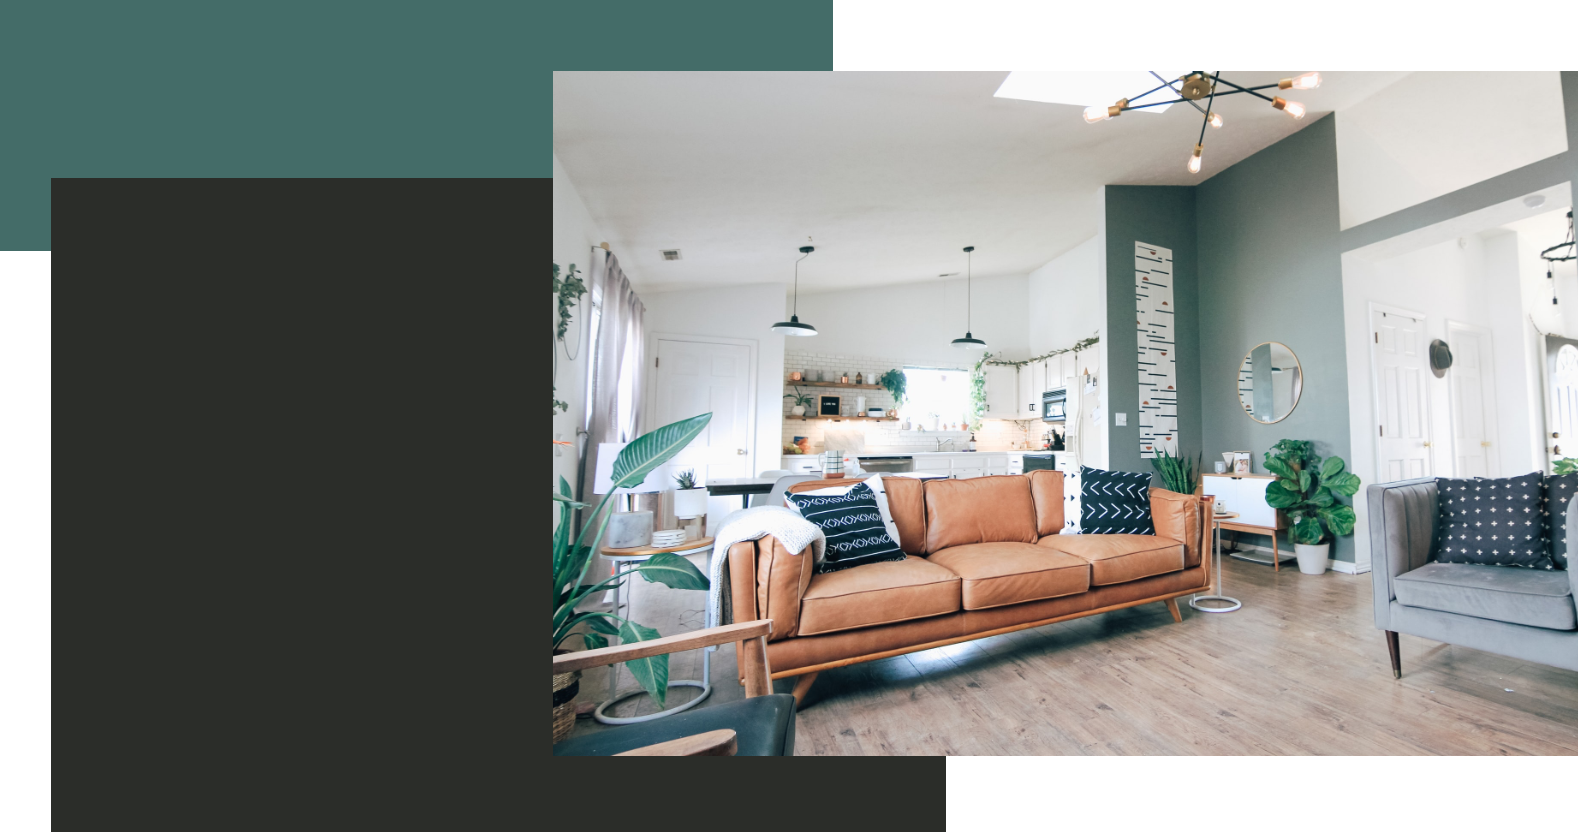
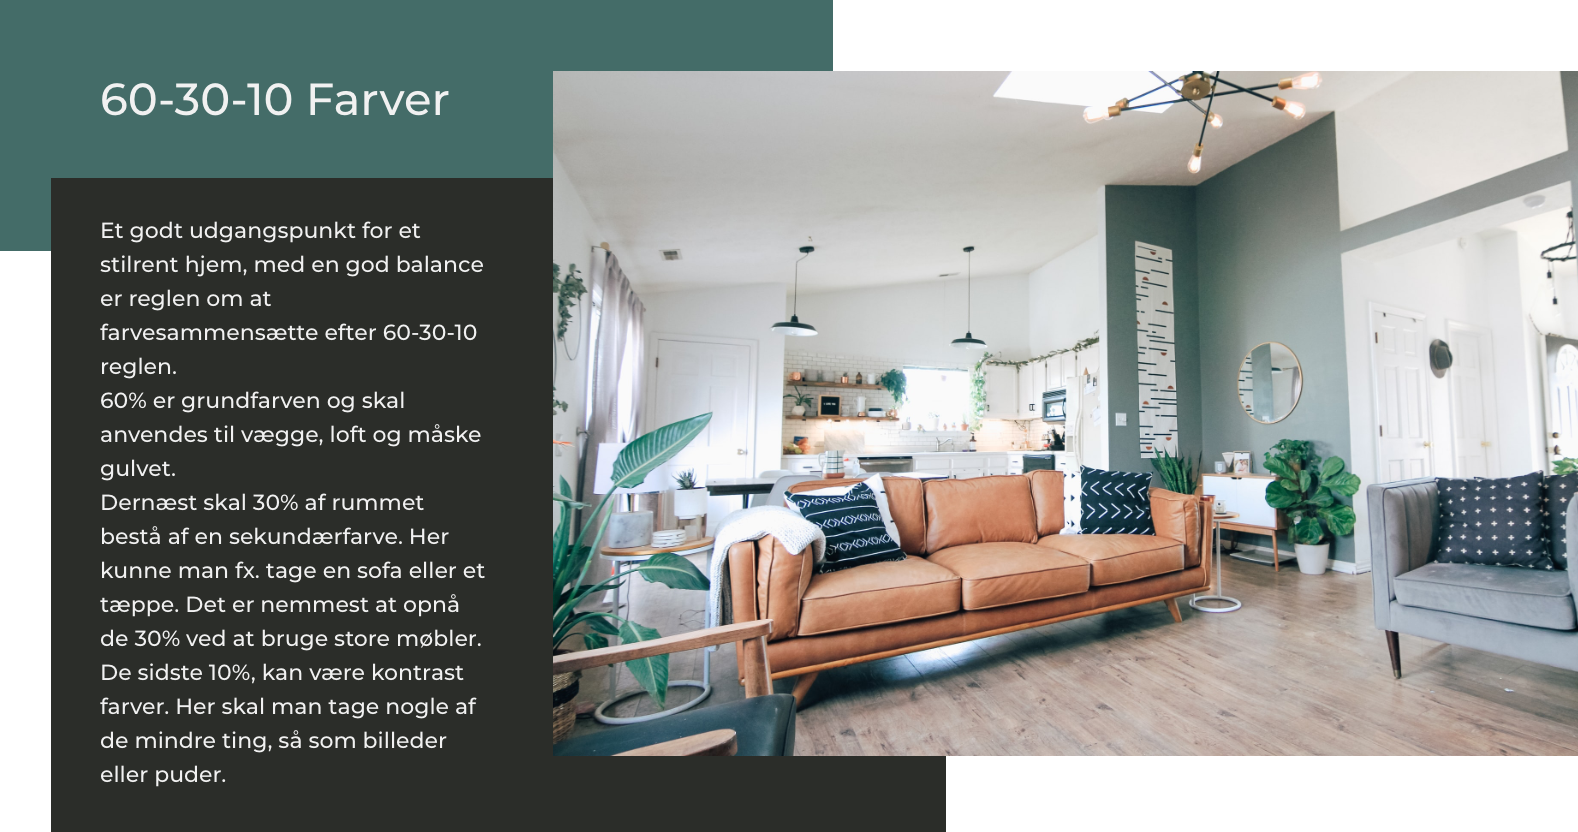
version 42

diff --git a/inspiration.html b/inspiration.html
@@ -73,7 +73,7 @@
 
                 <h2 id="inspiundertitel1">60-30-10</h2>
 
-                <p class="inspitekst">Den nemmeste regel at følge er at farvesammensætte efter tallene 60-30-10: 60% af rummet bør bestå af en grundfarve på væggene, gulv og loft. 30% af rummet bør bestå af en sekundær farve. Her virker det godt at bruge støre møbler som en sofa eller et tæppe i en ny farve. 10% af rummet skal bestå af 1-3 kontrastfarver. Vælg et par mindre detaljer ud som eksempelvis sofapuder og plaider.</p>
+                <p class="inspitekst">Et godt udgangspunkt for et stilrent hjem, med en god balance er reglen om at farvesammensætte efter 60-30-10 reglen.<br>60% er grundfarven og skal anvendes til vægge, loft og måske gulvet.<br>Dernæst skal 30% af rummet bestå af en sekundærfarve. Her kunne man fx. tage en sofa eller et tæppe. Det er nemmest at opnå de 30% ved at bruge store møbler.<br>De sidste 10%, kan være kontrast farver. Her skal man tage nogle af de mindre ting, så som billeder eller puder.</p>
 
             </article>
 
@@ -84,7 +84,7 @@
 
                 <h2 id="inspiundertitel2">Komplementærfarver <br>i din indretning</h2>
 
-                <p class="inspitekst">Det fungerer også altid godt at bruge komplementærfarver i din indretning. Altså kontrastfarver, der passer godt sammen. Lidt ligesom Yin og Yang. Her skal du bruge en farvepalette, og du finder komplementærfarverne ved at se hvilke farver, der ligger overfor hinanden på den. Rød og grøn, gul og lilla samt blå og orange (som på billedet) er hinandens komplementærfarver. Det betyder, at de er hinandens modsætninger, men at de klæder hinanden utrolig godt. Sætter du sådan et farvepar sammen, vil du opleve, at de giver liv og et flot farvespil derhjemme.</p>
+                <p class="inspitekst">Et andet initiativ som også kan bruges sammen med 60-30-10 reglen, er at bruge komplementær farver. Det vil oftest være i form af de 30% of 10% at man anvender komplementærfarver. Hvis man kigger på en farvepalette, så er det blot at kigge efter hvilke farver der ligger overfor hinanden. De vil have et godt sammenspil. Det er hinandens modsætninger og vil derfor skabe mere liv i hjemmet. Billedet ovenfor viser et rigtig godt eksempel på flot farvespil i mellem orange og blå.</p>
 
             </article>
 
@@ -94,14 +94,15 @@
 
                 <h2 id="inspiundertitel3">Tone i tone</h2>
 
-                <p class="inspitekst">Det behøves ikke at stikke i alle retninger og være helt vildt, når du bruger farver i dit hjem og din indretning. Det kan sagtens lade sig gøre at have rigtigt mange farver i dit hjem, men stadig have et helt roligt og harmonisk udtryk. Det gøres let ved at vælge tone i tone-farver, hvor alle de valgte nuancer læner sig op af hinanden på farveskalaen.</p>
+                <p class="inspitekst">I stedet for komplementær farver, kan man også vælge den mere rolige stil, og blot anvende farver i samme nuancer. Det vil sige farver som ikke adskiller sig særligt meget fra hinanden.<br><br>Som det ses på billedet, så er der mange forskellige farver i form af brun, sand, blå, lilla osv, men grundet de alle er lyse i farverne, så passer de godt sammen.</p>
 
             </article>
 
         </section>
         <section id="deskinspi">
+           
             <article class="deskinspirationsartikel">
-                <img src="images/inspiration/deskinspi1.png" alt="60-30-10 billeder">
+                <img id="firstinspipic" src="images/inspiration/deskinspi1.png" alt="60-30-10 billeder">
             </article>
 
             <article class="deskinspirationsartikel">
@@ -111,6 +112,7 @@
             <article class="deskinspirationsartikel">
                 <img src="images/inspiration/deskinspi3.png" alt="tone i tone billede">
             </article>
+            
         </section>
 
         <div id="icon-flex-bred">

diff --git a/CSS/style.css b/CSS/style.css
@@ -1188,7 +1188,7 @@ main {}
     line-height: 170%;
     padding: 10%;
     margin: 5%;
-    margin-top: -10%;
+    margin-top: -5%;
     background-color: #2b2d29;
     color: #f1f1f1;
 }
